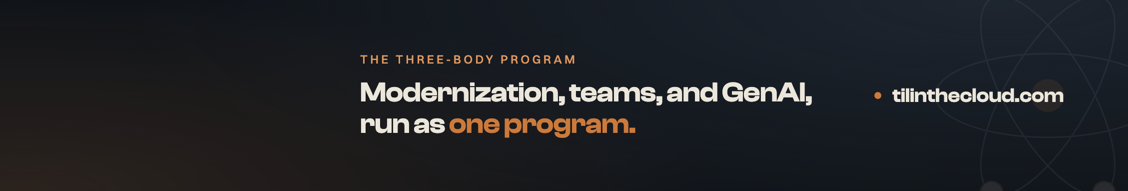
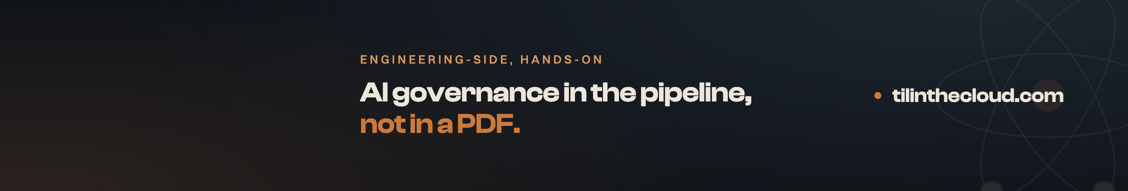
feat(brand): re-render LinkedIn and Substack covers for the new lead

Changed region(s): [[0.3103, 0.4188, 0.7447, 0.5759], [0.3103, 0.5759, 0.5895, 0.733], [0.3103, 0.288, 0.5585, 0.3403]]

diff --git a/assets/brand/social/src/substack-cover.html b/assets/brand/social/src/substack-cover.html
@@ -19,7 +19,7 @@
   .mark svg{ width:170px; height:170px; overflow:visible; }
   .core{ filter:drop-shadow(0 0 14px rgba(204,122,59,.65)); }
   .eyebrow{ font-weight:500; font-size:22px; letter-spacing:.22em; text-transform:uppercase; color:var(--copper-lo); margin-bottom:26px; }
-  h1{ font-family:"Clash Display",serif; font-weight:600; font-size:86px; line-height:1.02; letter-spacing:-.01em; margin-bottom:30px; }
+  h1{ font-family:"Clash Display",serif; font-weight:600; font-size:68px; line-height:1.02; letter-spacing:-.01em; margin-bottom:30px; }
   h1 .cop{ color:var(--copper); }
   p.sub{ font-size:27px; line-height:1.42; color:var(--bone-dim); max-width:760px; font-weight:400; margin-bottom:46px; }
   .foot{ display:flex; align-items:center; gap:14px;
@@ -32,8 +32,8 @@
     <g transform="rotate(60 200 200)"><ellipse class="ring" cx="200" cy="200" rx="150" ry="56"/><circle class="body" cx="350" cy="200" r="13"/></g>
     <g transform="rotate(120 200 200)"><ellipse class="ring" cx="200" cy="200" rx="150" ry="56"/><circle class="body" cx="350" cy="200" r="13"/></g>
     <circle class="core" cx="200" cy="200" r="19"/></svg></div>
-  <div class="eyebrow">The Three-Body Program</div>
-  <h1>One program.<br><span class="cop">Not three.</span></h1>
-  <p class="sub">Modernization, team redesign, and GenAI adoption, moving together. Hands-on, with a number on the outcome.</p>
+  <div class="eyebrow">AI governance in practice</div>
+  <h1>Most companies now have an AI policy.<br><span class="cop">Very few can show it working.</span></h1>
+  <p class="sub">Notes on governance that runs in the delivery system, from a recovering CTO who still writes the code.</p>
   <div class="foot"><span class="dot"></span>tilinthecloud.com</div>
 </body></html>

diff --git a/assets/brand/social/src/linkedin-personal-header.html b/assets/brand/social/src/linkedin-personal-header.html
@@ -31,7 +31,7 @@
     <g transform="rotate(120 200 200)"><ellipse class="ring" cx="200" cy="200" rx="150" ry="56"/><circle class="body" cx="350" cy="200" r="15"/></g>
     <circle class="core" cx="200" cy="200" r="22"/></svg></div>
   <div class="block">
-    <h1>Three bodies.<br><span class="cop">One program.</span></h1>
+    <h1>AI governance in the pipeline.<br><span class="cop">Not in a PDF.</span></h1>
     <div class="triad"><span class="d"></span><b>Architecture</b><span class="d"></span><b>Teams</b><span class="d"></span><b>AI capability</b></div>
   </div>
   <div class="cta"><span>Let's talk</span><span class="arrow">&#8594;</span><span>tilinthecloud.com</span></div>

diff --git a/assets/brand/social/src/linkedin-company-cover.html b/assets/brand/social/src/linkedin-company-cover.html
@@ -31,8 +31,8 @@
     <g transform="rotate(120 200 200)"><ellipse class="ring" cx="200" cy="200" rx="150" ry="56"/><circle class="body" cx="350" cy="200" r="15"/></g>
     <circle class="core" cx="200" cy="200" r="22"/></svg></div>
   <div class="block">
-    <div class="eyebrow">The Three-Body Program</div>
-    <div class="line">Modernization, teams, and GenAI,<br>run as <span class="cop">one program.</span></div>
+    <div class="eyebrow">Engineering-side, hands-on</div>
+    <div class="line">AI governance in the pipeline,<br><span class="cop">not in a PDF.</span></div>
   </div>
   <div class="url"><span class="dot"></span>tilinthecloud.com</div>
 </body></html>
